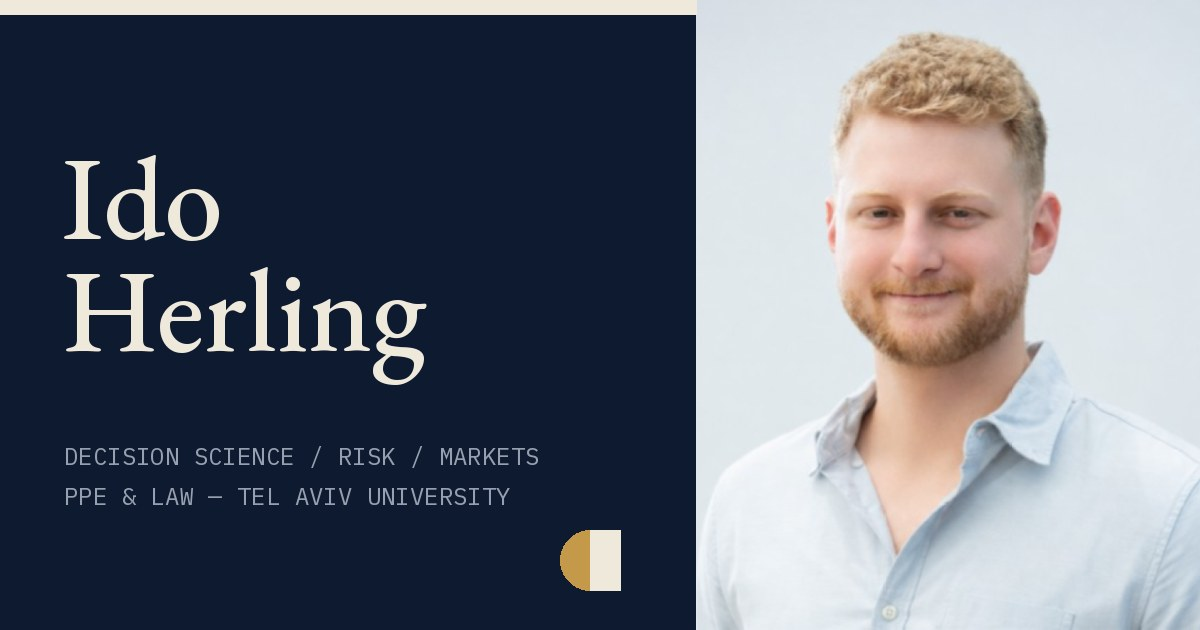
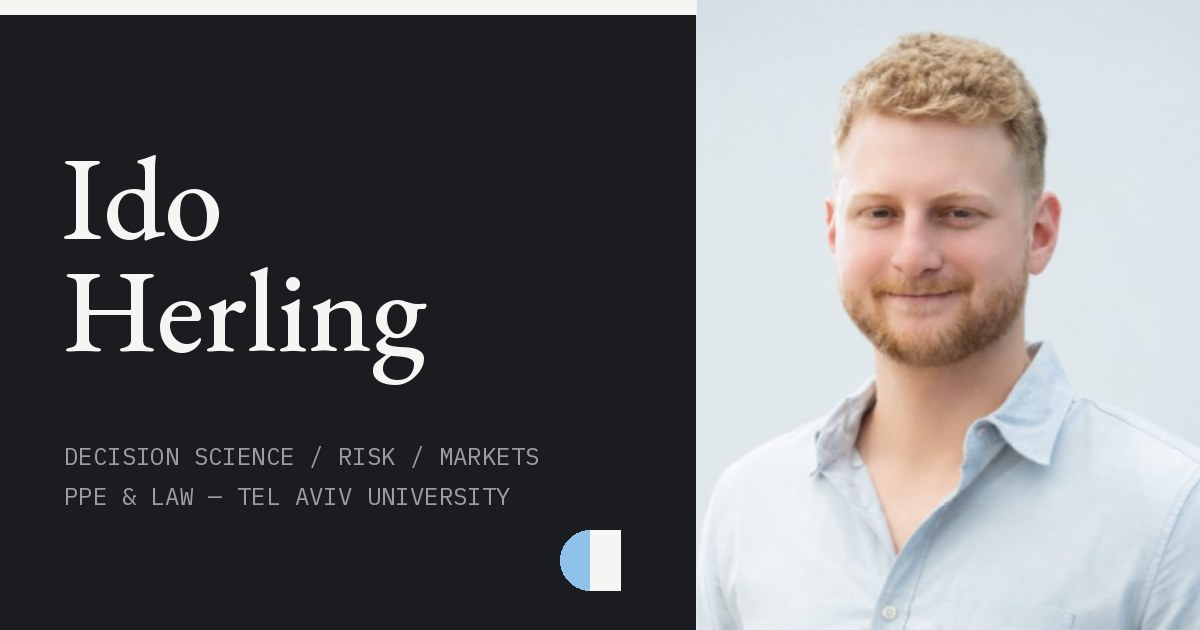
Switch to dark grey, white and light blue palette
Claude-Session: https://claude.ai/code/session_01TjkfGN2Qy4Hh1Avoui1eke

diff --git a/index.html b/index.html
@@ -2,20 +2,20 @@
 <html lang="en">
 <head>
 <meta charset="utf-8">
-<meta name="theme-color" content="#0e1a2f">
+<meta name="theme-color" content="#1b1c1f">
 <meta name="color-scheme" content="dark">
 <meta name="viewport" content="width=device-width, initial-scale=1">
 <title>Ido Herling</title>
 <meta name="description" content="Ido Herling — PPE & Law at Tel Aviv University. Decision science, risk, markets.">
-<link rel="icon" href="favicon.svg?v=2" type="image/svg+xml">
-<link rel="icon" href="favicon-32.png?v=2" sizes="32x32" type="image/png">
-<link rel="apple-touch-icon" href="apple-touch-icon.png?v=2">
+<link rel="icon" href="favicon.svg?v=3" type="image/svg+xml">
+<link rel="icon" href="favicon-32.png?v=3" sizes="32x32" type="image/png">
+<link rel="apple-touch-icon" href="apple-touch-icon.png?v=3">
 <link rel="canonical" href="https://idoherling.github.io/">
 <meta property="og:type" content="website">
 <meta property="og:url" content="https://idoherling.github.io/">
 <meta property="og:title" content="Ido Herling">
 <meta property="og:description" content="PPE & Law at Tel Aviv University. Decision scientist at PayPal. Writing on markets, philosophy and technology.">
-<meta property="og:image" content="https://idoherling.github.io/og.jpg?v=2">
+<meta property="og:image" content="https://idoherling.github.io/og.jpg?v=3">
 <meta property="og:image:width" content="1200">
 <meta property="og:image:height" content="630">
 <meta name="twitter:card" content="summary_large_image">
@@ -24,7 +24,7 @@
 <link href="https://fonts.googleapis.com/css2?family=EB+Garamond:wght@500&family=Source+Sans+3:wght@400;500;600&family=IBM+Plex+Mono:wght@400;500&display=swap" rel="stylesheet">
 <style>
   :root{
-    --paper:#0e1a2f; --ink:#efe9dc; --mute:#97a0b0; --rule:#24324c; --accent:#c49a4a;
+    --paper:#1b1c1f; --ink:#f5f5f3; --mute:#9b9da4; --rule:#2f3035; --accent:#8fc1ea;
     --display:'EB Garamond',Georgia,serif; --sans:'Source Sans 3',system-ui,sans-serif; --mono:'IBM Plex Mono',ui-monospace,monospace;
   }
   *{box-sizing:border-box;margin:0;padding:0}
